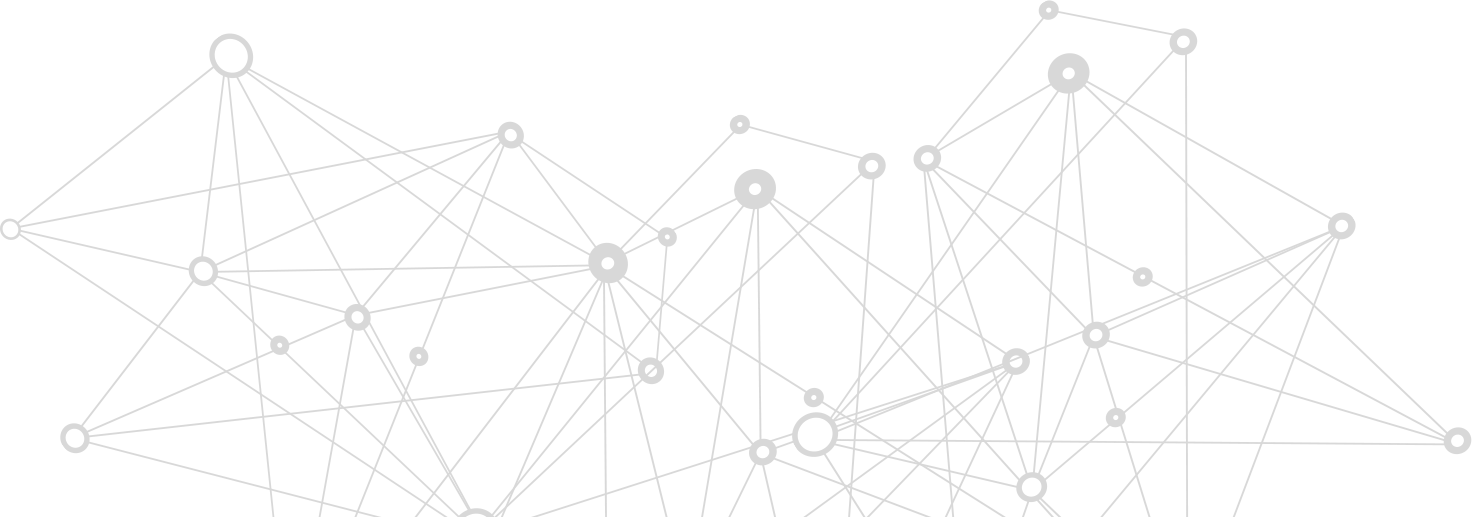
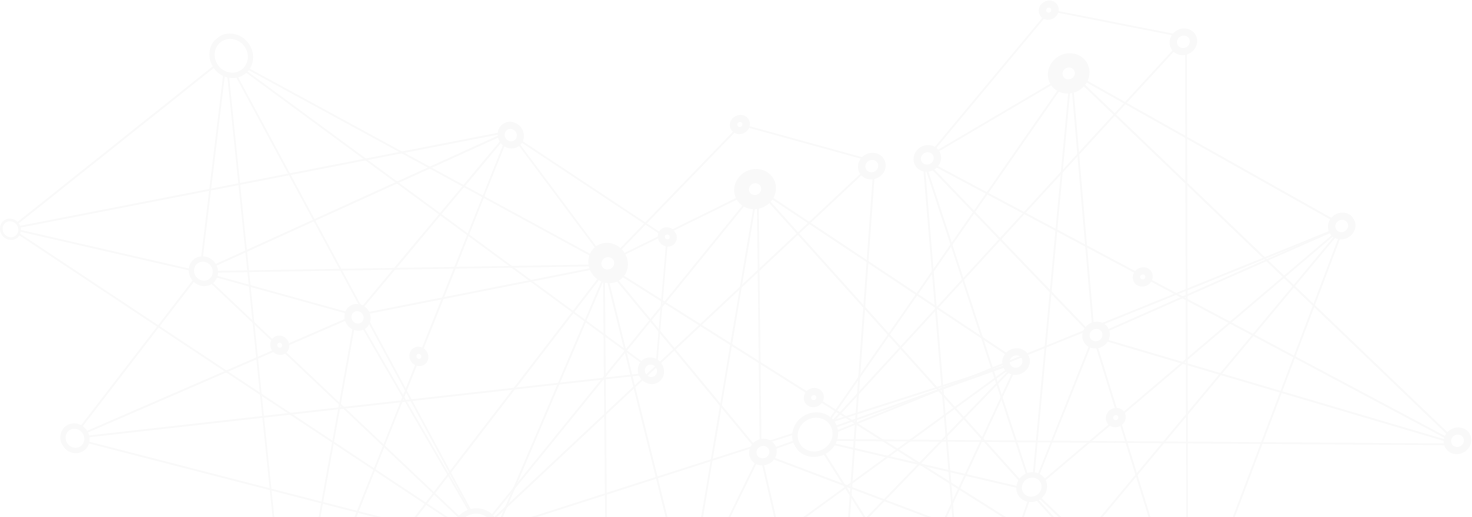
Started working on footer responsive design

diff --git a/src/components/footer/Footer.js b/src/components/footer/Footer.js
@@ -6,10 +6,10 @@ import { Row, Col, Icon } from "antd";
 export default class Footer extends Component {
   render() {
     return (
-      <div className="footer">
-        <div className={"footer-image"} />
+      <Row className="footer">
+        <img className={"footer-image"} src={require("../../assets/connected_dots.png")} />
 
-        <div className="footer-title-container">
+        <Row className="footer-title-container">
           <h1 className="footer-title">
             Proin scelerisque{" "}
             <p className="footer-title" style={{ fontWeight: 400, display: "inline-block" }}>
@@ -21,28 +21,28 @@ export default class Footer extends Component {
             Nam tempus metus vitae vehicula ultricies. Etiam a quam purus. Nullam ornare vel lectus at scelerisque. Donec at libero commodo, accumsan
             neque nec, accumsan ligula.{" "}
           </h3>
-        </div>
-        <Row style={{ width: "45vw", marginTop: "5vh" }}>
-          <Col span={8}>
+        </Row>
+        <Row style={{ marginTop: "5vh" }} gutter={[48, 48]}>
+          <Col lg={8} md={8} xs={24}>
             <Icon style={{ fontSize: 36, color: "white", textAlign: "center", width: "100%", marginBottom: 10 }} type="shopping" />
 
             <p className={"footer-column-title"}>1,2 miljoen</p>
             <p className={"footer-column-subtitle"}>Bedrijven aangesloten</p>
           </Col>
-          <Col span={8}>
+          <Col lg={8} md={8} xs={24}>
             <Icon style={{ fontSize: 36, color: "white", textAlign: "center", width: "100%", marginBottom: 10 }} type="clock-circle" />
 
             <p className={"footer-column-title"}>24 uur</p>
             <p className={"footer-column-subtitle"}>Altijd up-to-date</p>
           </Col>
-          <Col span={8}>
+          <Col lg={8} md={8} xs={24}>
             <Icon style={{ fontSize: 36, color: "white", textAlign: "center", width: "100%", marginBottom: 10, fontWeight: 400 }} type="filter" />
 
             <p className={"footer-column-title"}>8 categorieën</p>
             <p className={"footer-column-subtitle"}>Duidelijk ingedeeld</p>
           </Col>
         </Row>
-      </div>
+      </Row>
     );
   }
 }

diff --git a/src/components/footer/Footer.css b/src/components/footer/Footer.css
@@ -1,6 +1,4 @@
 .footer {
-  width: 100vw;
-  height: 40vh;
   background-color: #006989;
   display: flex;
   flex-direction: column;
@@ -11,7 +9,7 @@
 
 .footer-title {
   color: white;
-  font-size: 36px;
+  font-size: 5vh;
   margin: 0 !important;
   line-height: 55px;
   position: relative;
@@ -22,8 +20,8 @@
 
 .footer-subtitle {
   color: white;
-  font-size: 18px;
-  width: 75%;
+  font-size: 3vh;
+  width: 90%;
   position: relative;
   margin: 0 !important;
   text-align: center;
@@ -32,8 +30,8 @@
 
 .footer-title-container {
   width: 100vw;
-  padding-left: 17vw;
-  padding-right: 17vw;
+  padding-left: 5vw;
+  padding-right: 5vw;
 
   display: flex;
   flex-direction: column;
@@ -58,10 +56,32 @@
 
 .footer-image {
   position: absolute;
-  width: 100vw;
-  height: 40vh;
-  opacity: 15%;
-  background-image: url("../../assets/connected_dots.png");
-  background-size: cover;
-  background-position: center;
+  object-fit: cover;
+  width: 100%;
+  height: 100%;
+  z-index: 0;
+  left: 0;
+}
+
+@media (min-width: 992px) {
+  .footer-title-container {
+    width: 100vw;
+    padding-left: 17vw;
+    padding-right: 17vw;
+
+    display: flex;
+    flex-direction: column;
+    align-items: center;
+    justify-content: center;
+  }
+
+  .footer-subtitle {
+    color: white;
+    font-size: 18px;
+    width: 75%;
+    position: relative;
+    margin: 0 !important;
+    text-align: center;
+    z-index: 1;
+  }
 }
